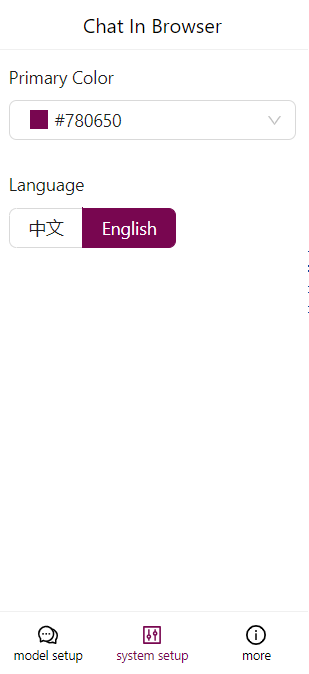
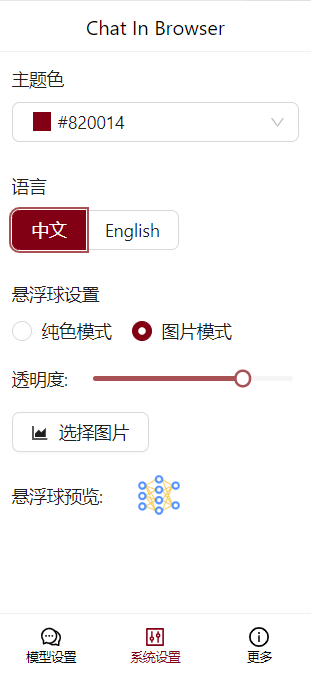
doc: update 20240407 features and image

diff --git a/README.en.md b/README.en.md
@@ -85,3 +85,6 @@ After completing the model configuration, you can use the model.
 
 ## Let's Optimize This Project Together
 Welcome everyone to raise issues or submit code to improve this project!
+
+## Update Log
+2024-4-7: Added support for DIY floating ball appearance.

diff --git a/README.md b/README.md
@@ -77,3 +77,6 @@ git clone https://github.com/callmexhj/ChatInBrowser.git
 
 ## 一起优化这个项目
 欢迎大家提出ISSUE或者提交代码来改进这个项目！
+
+## 更新记录
+2024-4-7 支持DIY悬浮球外观
